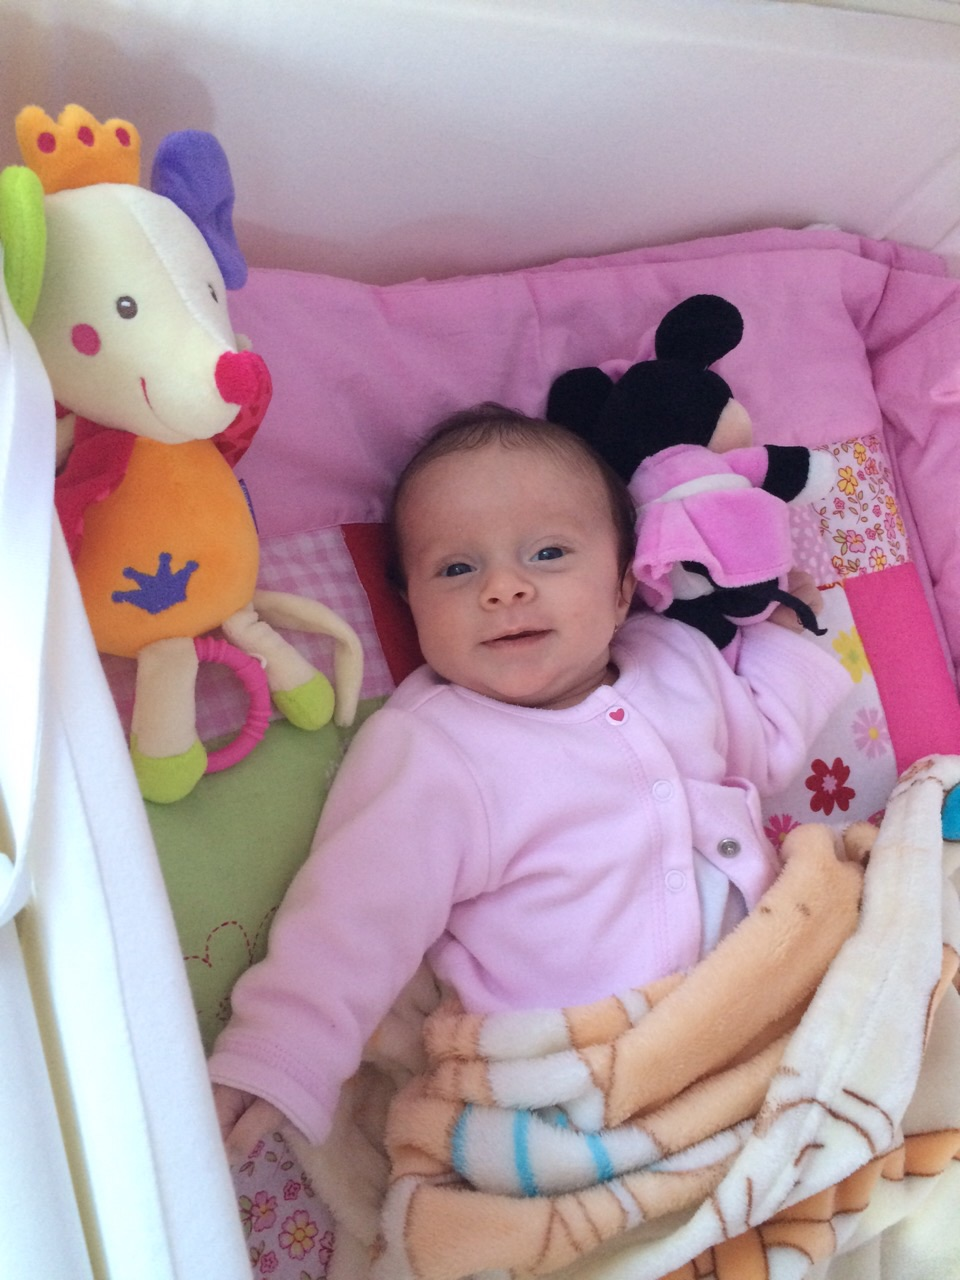
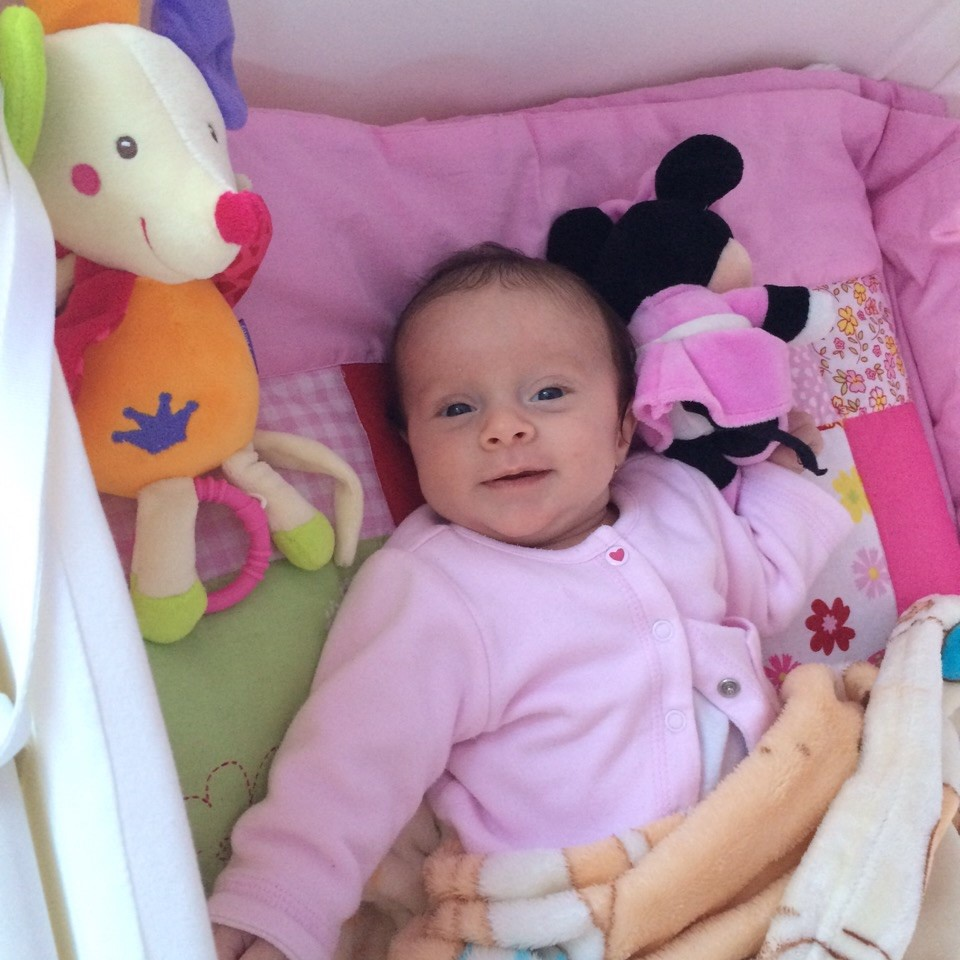
képek pos

diff --git a/css/pictures.css b/css/pictures.css
@@ -4,6 +4,7 @@ html {
     background-color: #c7e2ec;
 }
 article {
+    height: 750px;
     padding: 10px;
     border: 1px solid  #9badb4;
     font-family: -apple-system, BlinkMacSystemFont, 'Segoe UI', Roboto, Oxygen, Ubuntu, Cantarell, 'Open Sans', 'Helvetica Neue', sans-serif;
@@ -15,15 +16,19 @@ article {
     position: relative;
 } 
 header {
+    padding: 25px;
     font-size: 3rem;
     font-weight: bold;
+    font-style: italic;
 }
 img {
-    width: 100px;
+    width: 325px;
+    height: 325px;
     margin: 5px;
 }
 a {
     color: #000000;
+    padding: 20px;
 }
 .pic1 {
     position: absolute;

diff --git a/pictures.html b/pictures.html
@@ -51,10 +51,10 @@
     </nav>
     <article>
         <div class="pic1">
-            <img src="/img/Első évem - borító.JPG" class="role" alt="Én">
+            <img src="/img/Első évem - borító.JPG" class="rounded-circle" alt="Én">
         </div>
         <div class="pic2">
-            <img src="/img/1éves/IMG_0747.JPG" class="role" alt="Én">
+            <img src="/img/1éves/IMG_0747.JPG" class="rounded-circle" alt="Én">
         </div>
         <header>Képek az Életemről és Mindennapjaimról!</header>
         <a target="blank" href="/pictures1.html">

diff --git a/css/pictures2.css b/css/pictures2.css
@@ -3,6 +3,8 @@ html {
     background-color: lightpink;
 }
  img {
-     width: 260px;
-     height: 200px;
+    margin: 1%;
+    width: 10%;
+    height: auto;
+    
  }

diff --git a/css/vicike.css b/css/vicike.css
@@ -1,4 +1,5 @@
 html {
+    position: relative;
     background-image: url(../img/Vicike1-bg.JPG);
     background-position: top;
     background-repeat: no-repeat;

diff --git a/css/pictures1.css b/css/pictures1.css
@@ -14,6 +14,8 @@ html {
 
 .mySlides {
     display: none;
+    position: relative;
+    left: 12.5%;
     max-width: 75%;
 }
 
